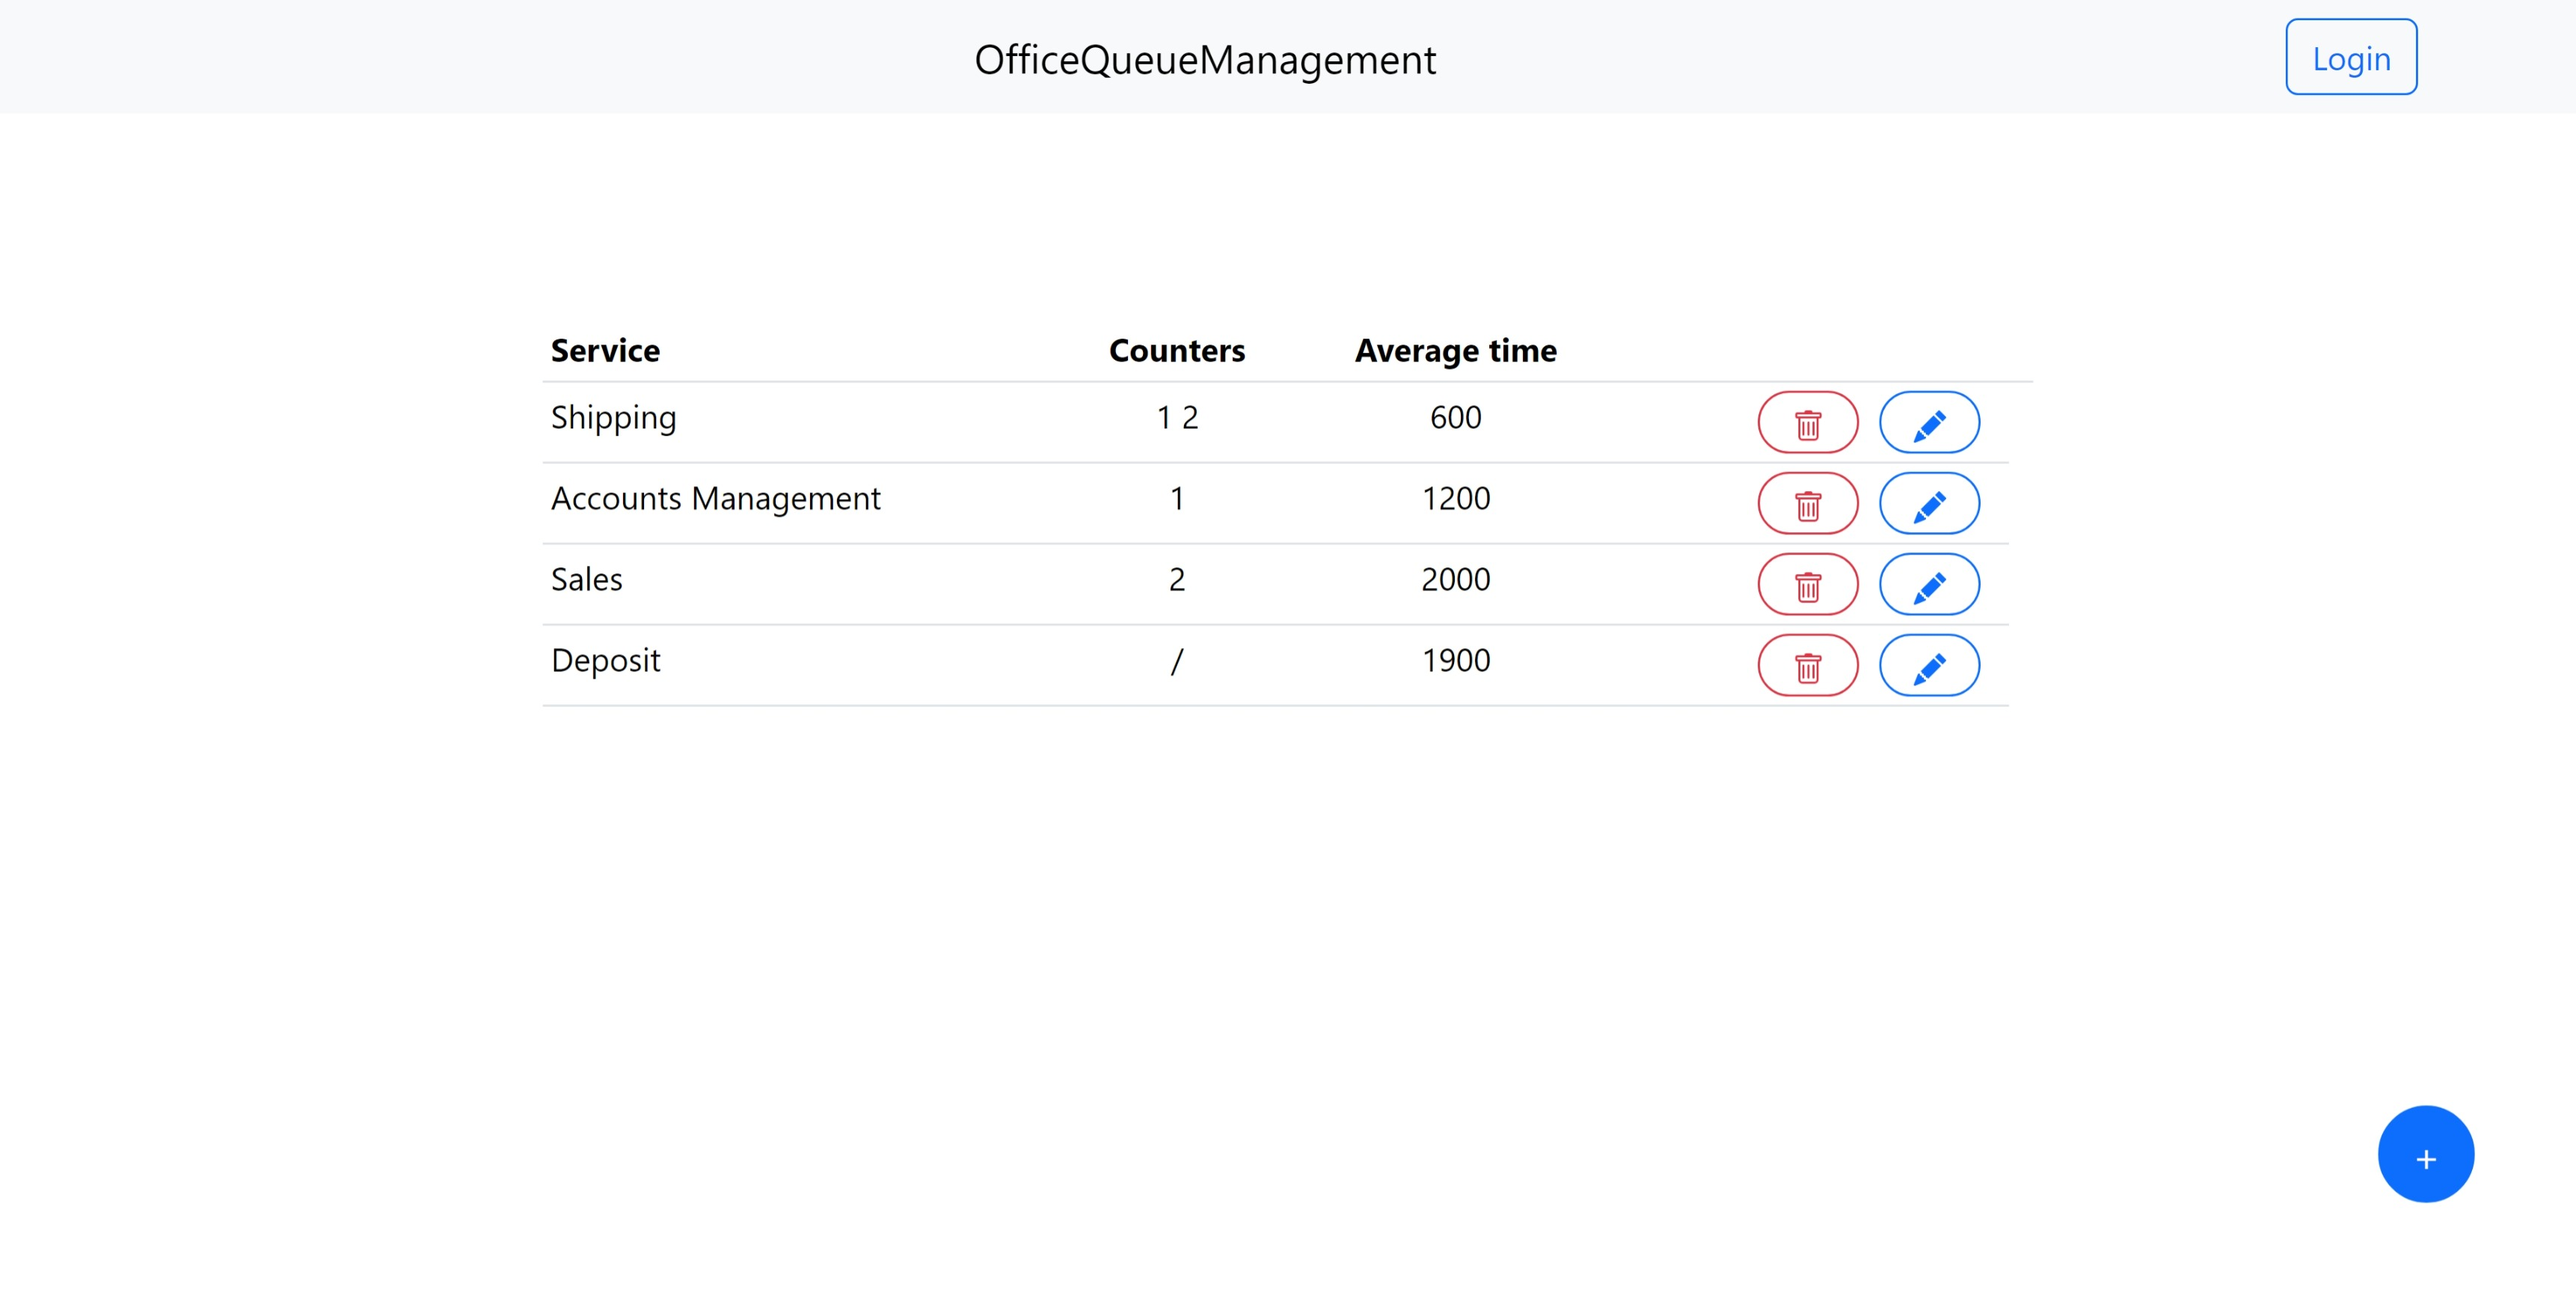
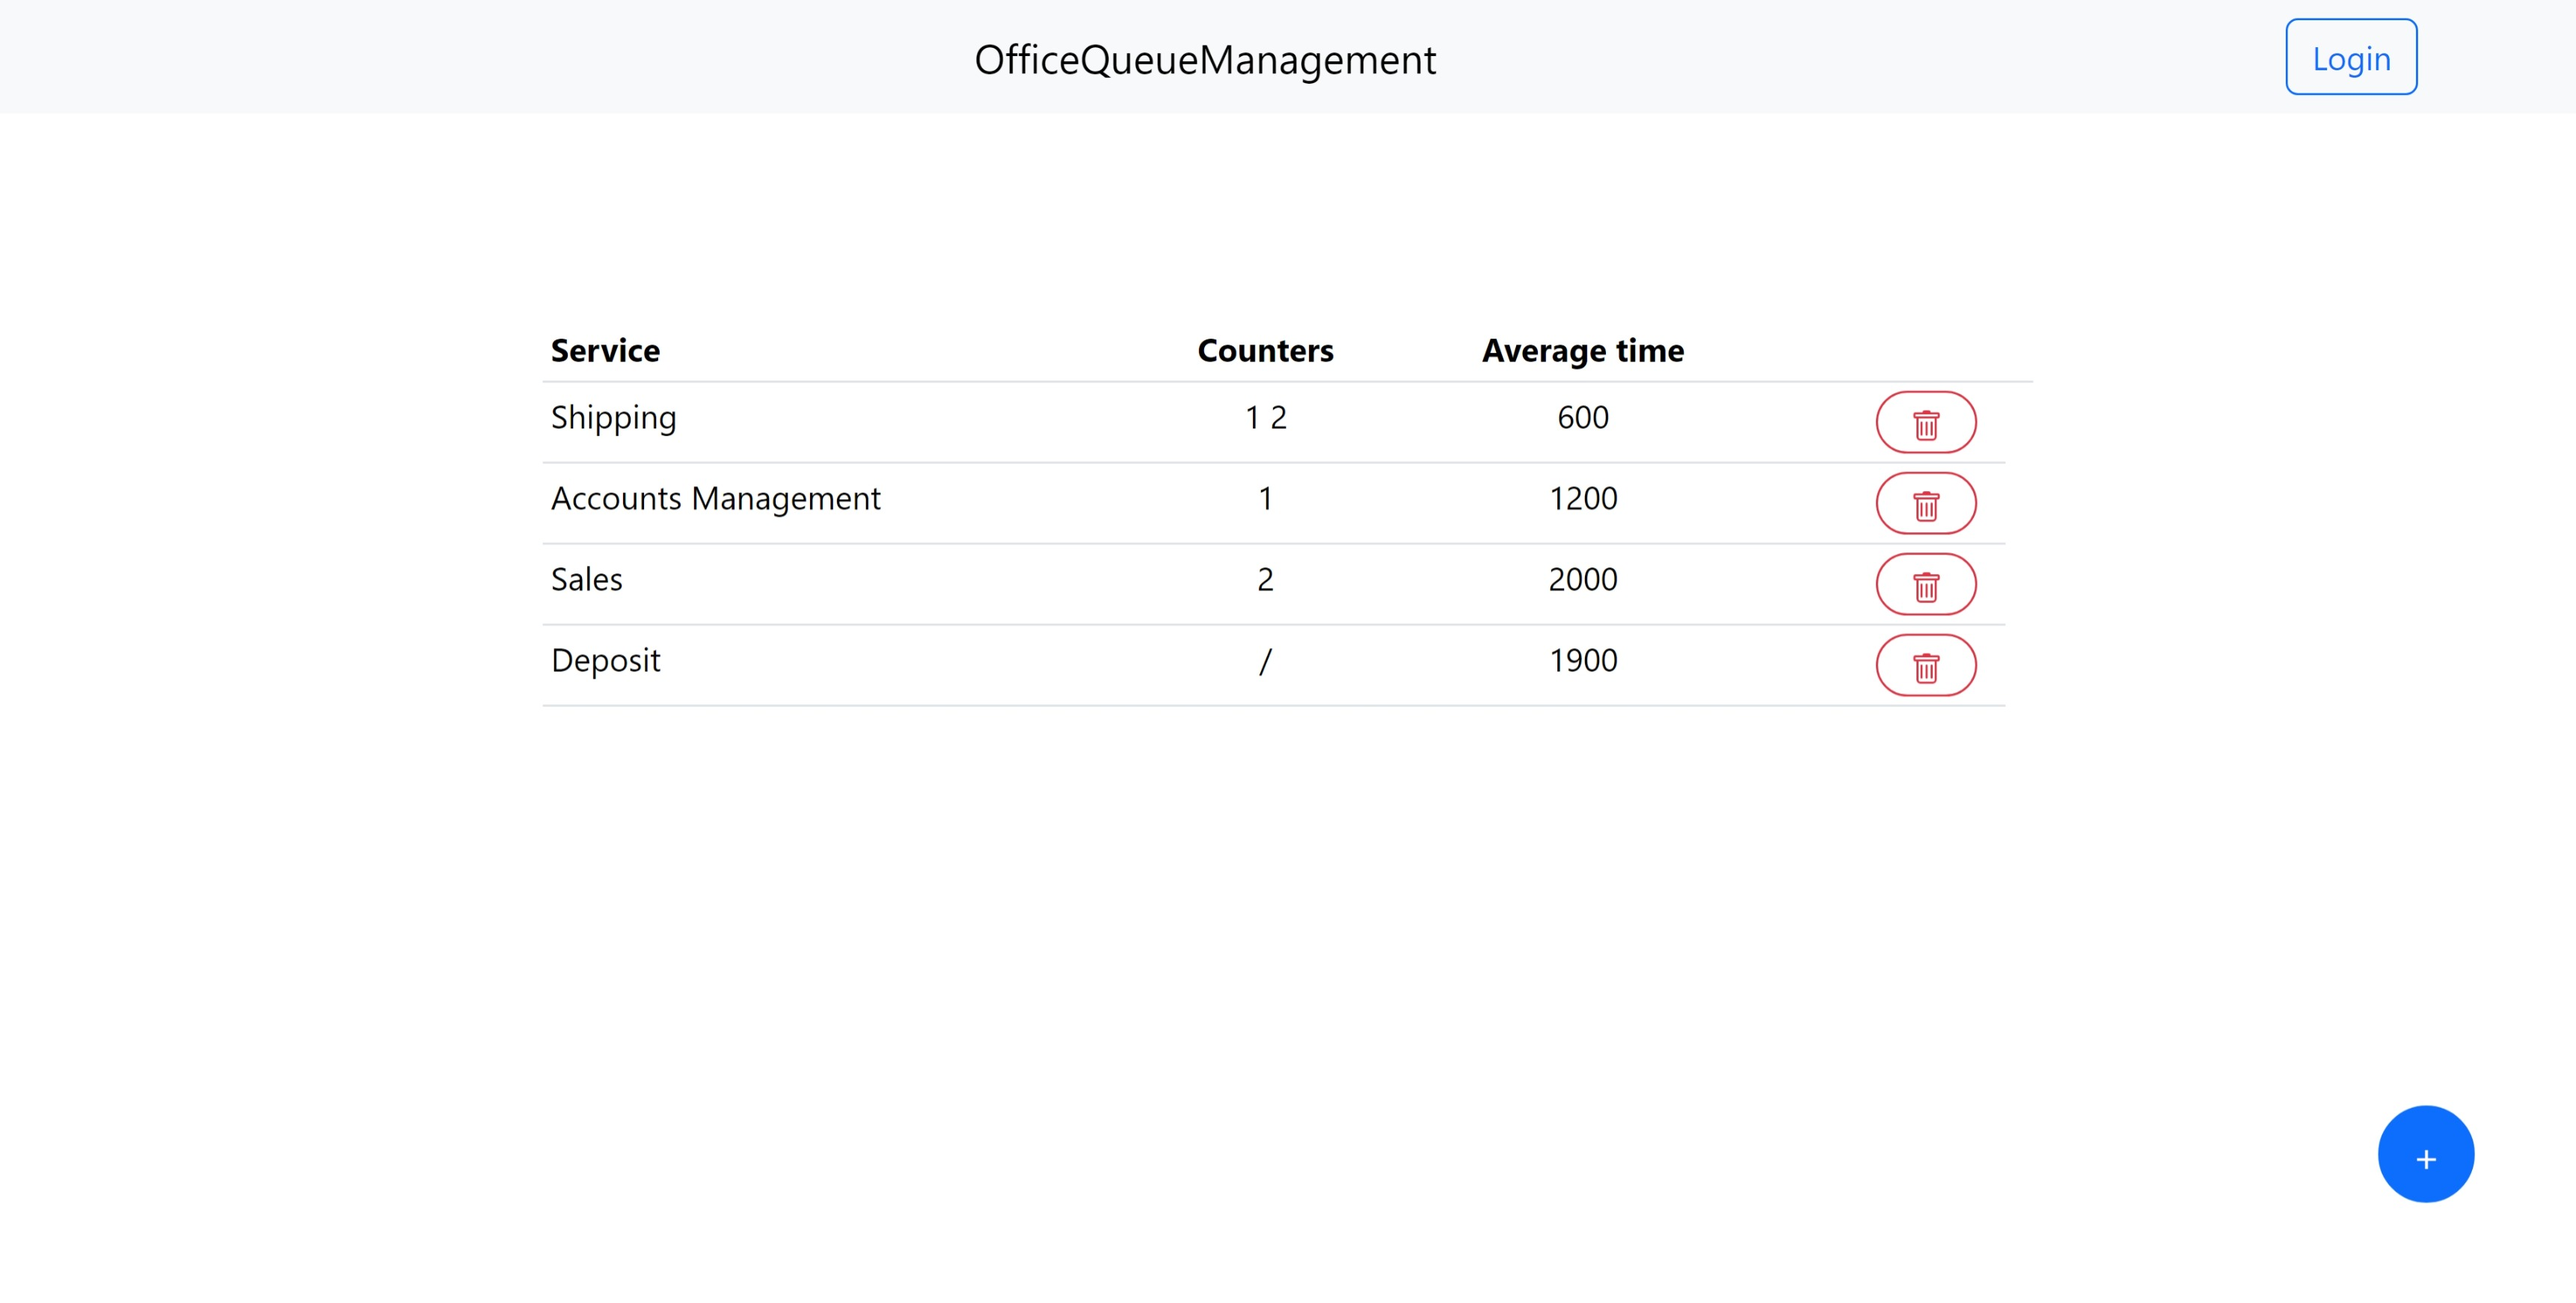
update images readme

diff --git a/README.md b/README.md
@@ -39,14 +39,14 @@
 - Route `/`: main page which contains a navbar and the list of services that we can request a ticket for
 - Route `/login`: login form 
 - Route `/officer`: it displays the page with the point of view of the officer, where he can call the next client and see the ticket code
-- Route `/admin`: it displays the page with the point of view of the admin, he sees all the services, can modify them and also create a new one
+- Route `/admin`: it displays the page with the point of view of the admin, he sees all the services, can delete them and also create a new one
 - Route `/*`: redirect the site to the homepage
 
 
 ## Main React Components
 
 - `Home` (in `Home.jsx`): component that contains the list of services for which I can request a ticket by clicking on them, interface for the client
-- `Admin` (in `Admin.jsx`): component where I can create a new service or edit/delete an existing one, interface for the admin
+- `Admin` (in `Admin.jsx`): component where I can create a new service or delete an existing one, interface for the admin
 - `ServiceOffcanvas` (in `ServiceOffcanvas.jsx`): component that contains the form to create a new service
 - `Officer` (in `Officer.jsx`): compontent that contains a button for calling the next client, interface for the officer
 - `MyNavbar` (in `MyNavbar.jsx`): component that contains the layout of the webside, in particular the navbar with the title and login/logout button
